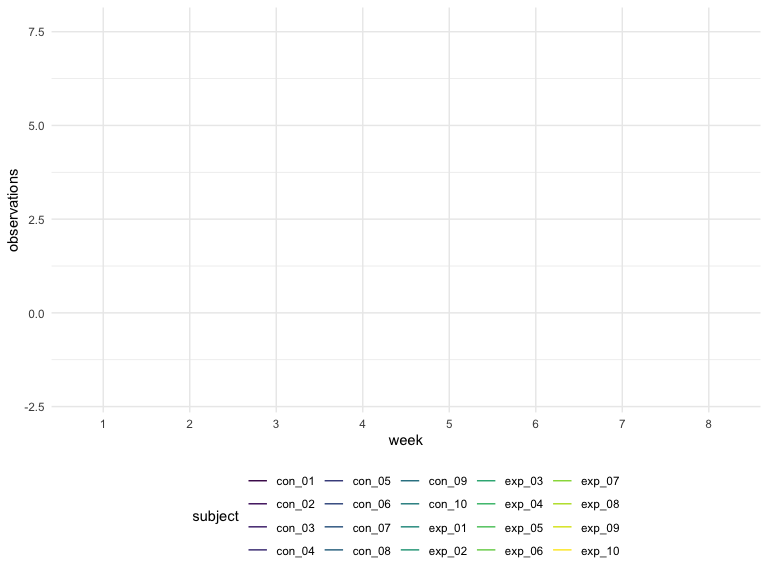
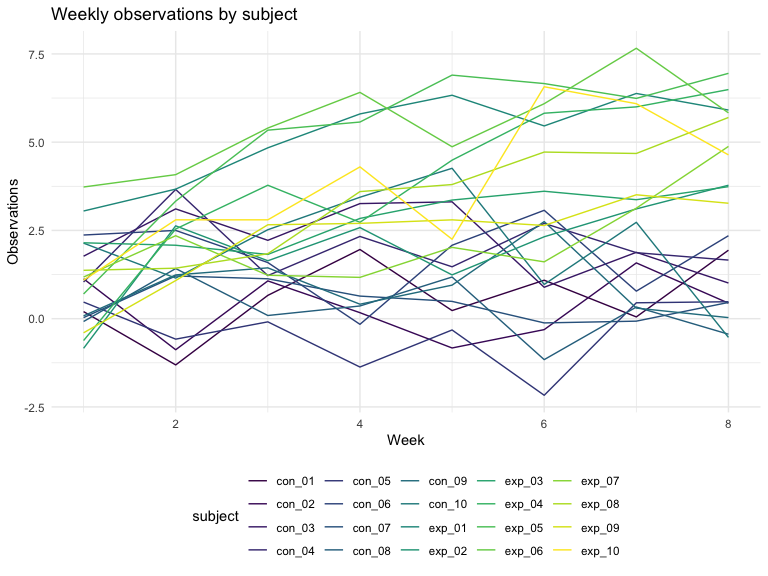
Fixed problem 2 graph issue

diff --git a/p8105_hw5_md3851.md b/p8105_hw5_md3851.md
@@ -300,12 +300,13 @@ study_data = cbind(names_df, observations_df) %>%
     values_to = "observations") 
 
 study_data %>%
-  ggplot(aes(x = week, y = observations, color = subject)) +
-  geom_line()
+  ggplot(aes(x = as.numeric(week), y = observations, color = subject)) +
+  geom_line() + 
+  labs(
+       title = "Weekly observations by subject", 
+       x = "Week",
+       y = "Observations")
 ```
-
-    ## geom_path: Each group consists of only one observation. Do you need to
-    ## adjust the group aesthetic?
 
 <img src="p8105_hw5_md3851_files/figure-markdown_github/unnamed-chunk-3-1.png" width="90%" />
 
